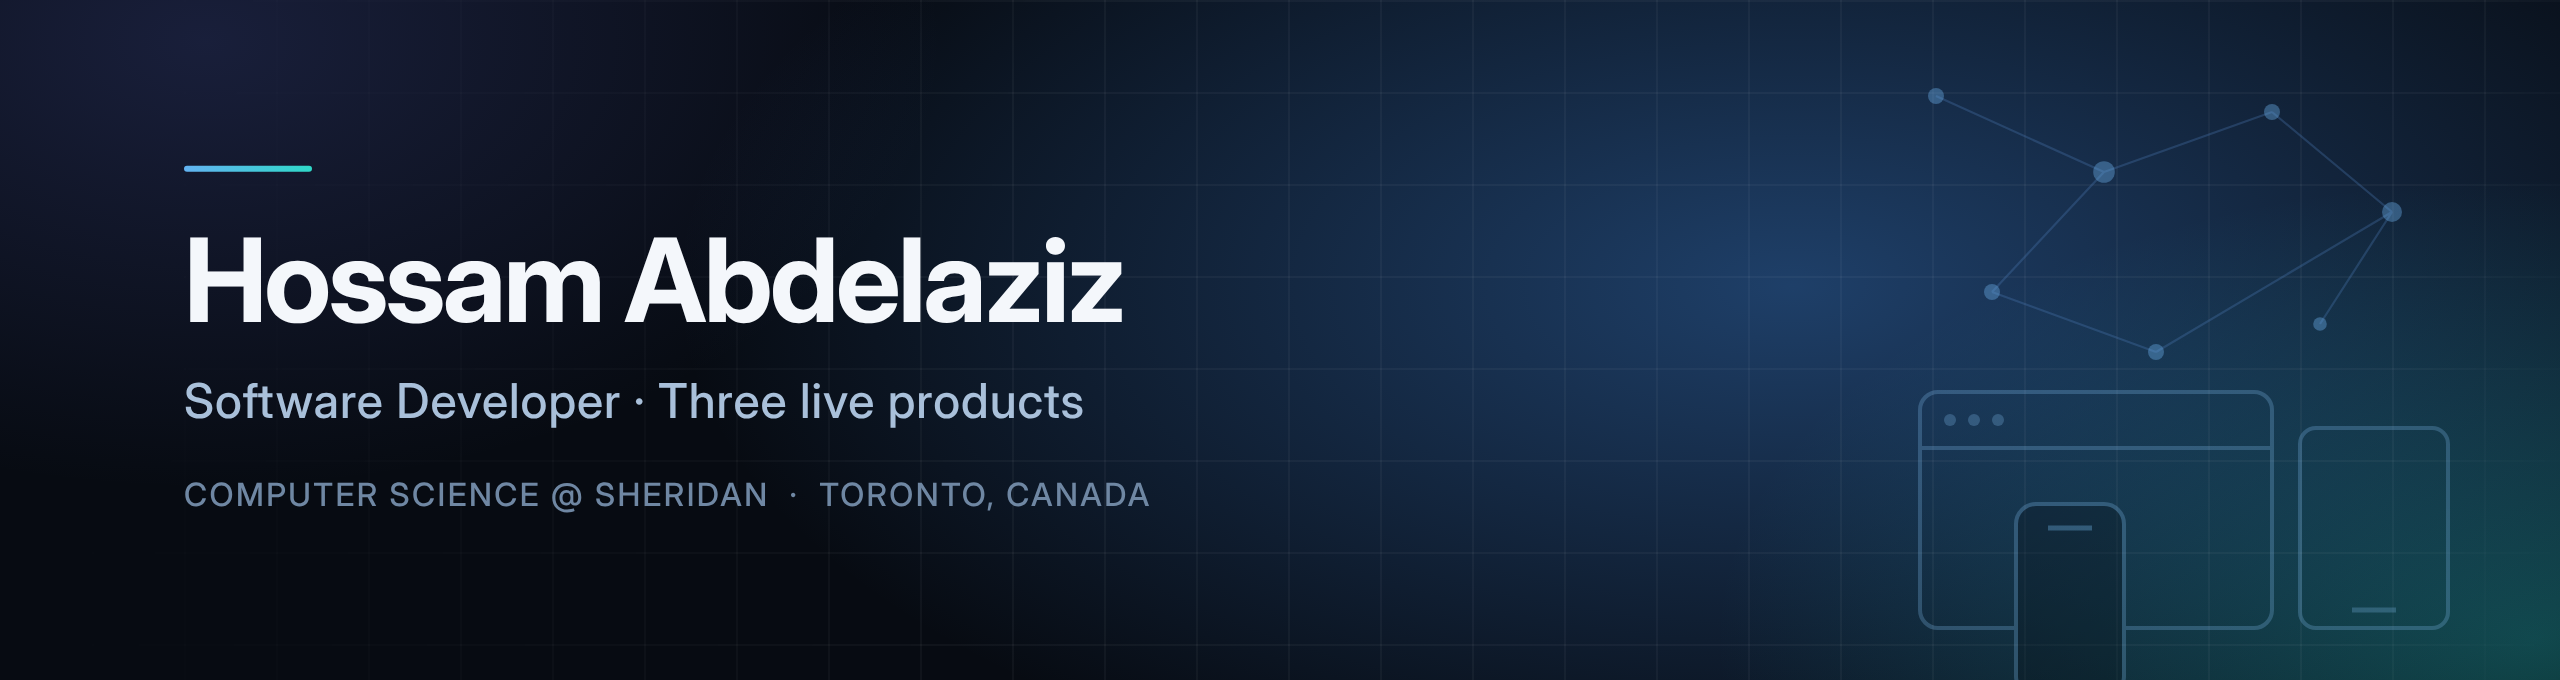
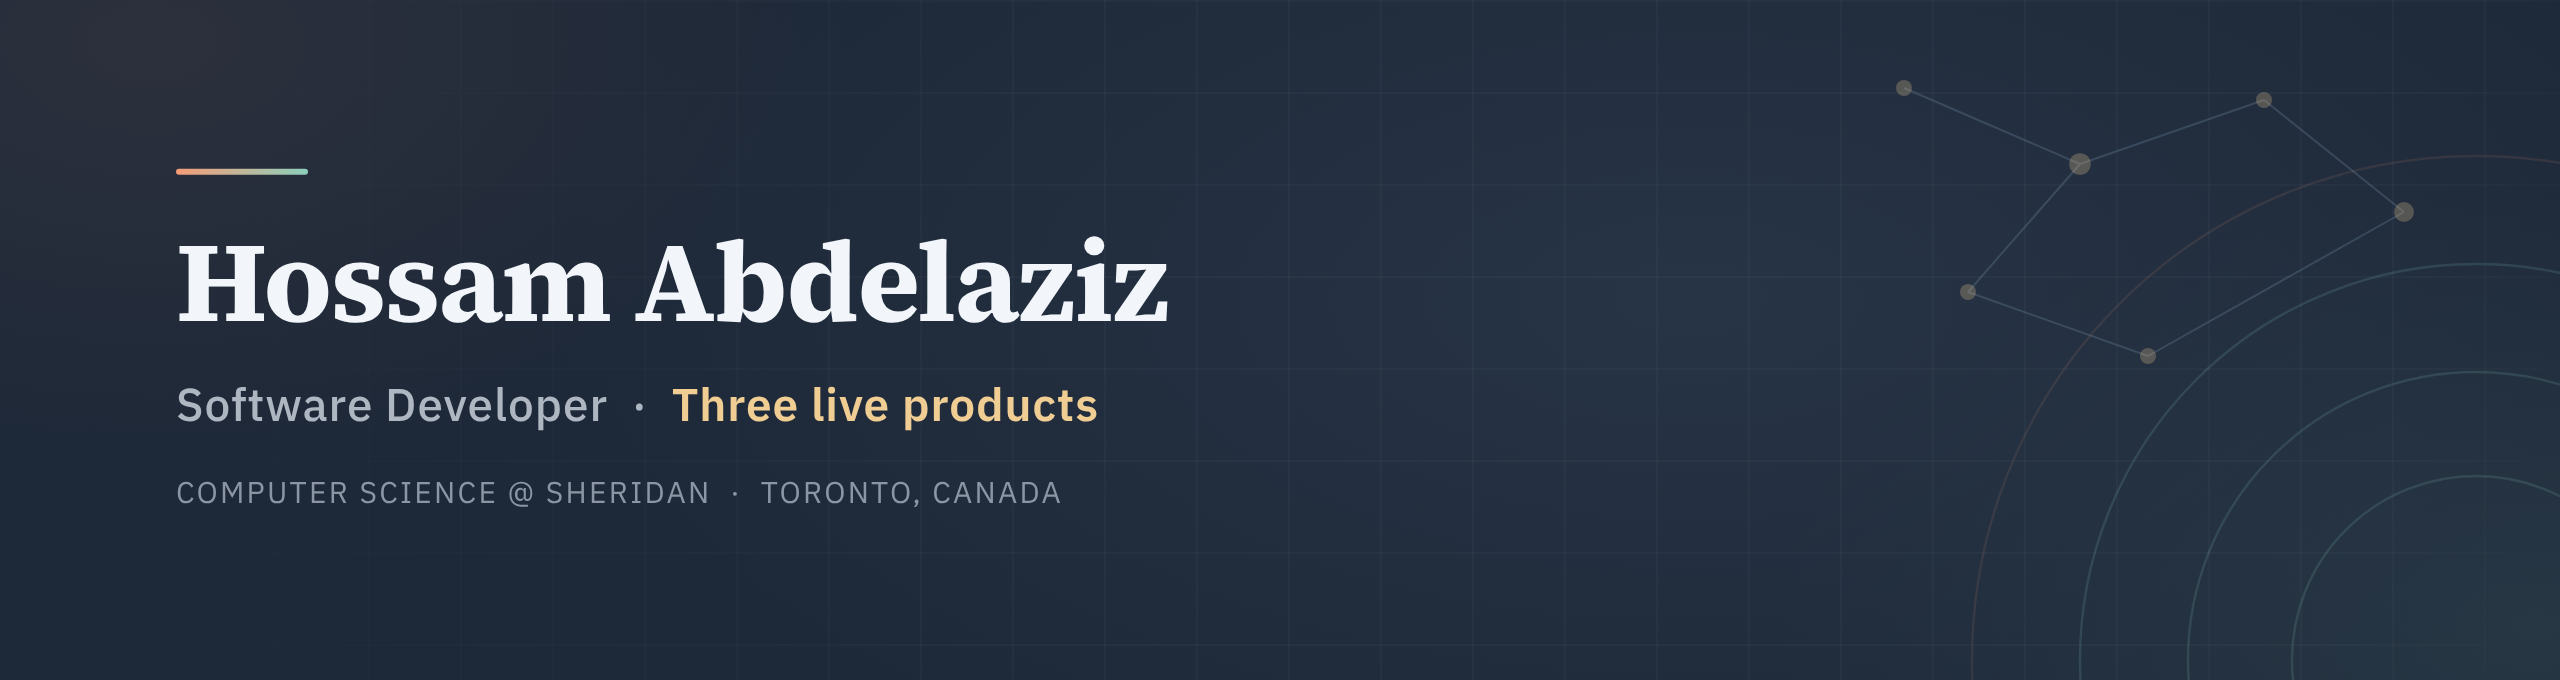
Match the GitHub profile to the site palette
Rebuild the banner in the site's navy/amber/rust tokens with Source
Serif 4 and IBM Plex Sans, and recolour the four action badges to
match. Widen the open-to badge to "internship or co-op", as the site
and the LinkedIn cover now say.

Tech badges keep their own brand colours.

Claude-Session: https://claude.ai/code/session_01GWUmv3D9UB5kKZWMW7TNfV

diff --git a/README.md b/README.md
@@ -3,10 +3,10 @@
 </p>
 
 <p align="center">
-  <a href="https://www.hossamabdelaziz.com"><img src="https://img.shields.io/badge/Portfolio-0B0E14?style=for-the-badge&logo=vercel&logoColor=white" alt="Portfolio" /></a>
+  <a href="https://www.hossamabdelaziz.com"><img src="https://img.shields.io/badge/Portfolio-1d2838?style=for-the-badge&logo=vercel&logoColor=f0cd93" alt="Portfolio" /></a>
   <a href="https://www.linkedin.com/in/hossam-anwar-abdelaziz"><img src="https://img.shields.io/badge/LinkedIn-0A66C2?style=for-the-badge&logo=linkedin&logoColor=white" alt="LinkedIn" /></a>
-  <a href="mailto:hossam.anwar.aziz@gmail.com"><img src="https://img.shields.io/badge/Email-2FD8C8?style=for-the-badge&logo=gmail&logoColor=0B0E14" alt="Email" /></a>
-  <img src="https://img.shields.io/badge/Open%20to-Summer%202027%20Co--op-63B3F2?style=for-the-badge" alt="Open to Summer 2027 co-op" />
+  <a href="mailto:hossam.anwar.aziz@gmail.com"><img src="https://img.shields.io/badge/Email-f59d77?style=for-the-badge&logo=gmail&logoColor=1d2838" alt="Email" /></a>
+  <img src="https://img.shields.io/badge/Open%20to-Summer%202027%20Internship%20or%20Co--op-f0cd93?style=for-the-badge&labelColor=1d2838" alt="Open to Summer 2027 internship or co-op" />
 </p>
 
 ---
